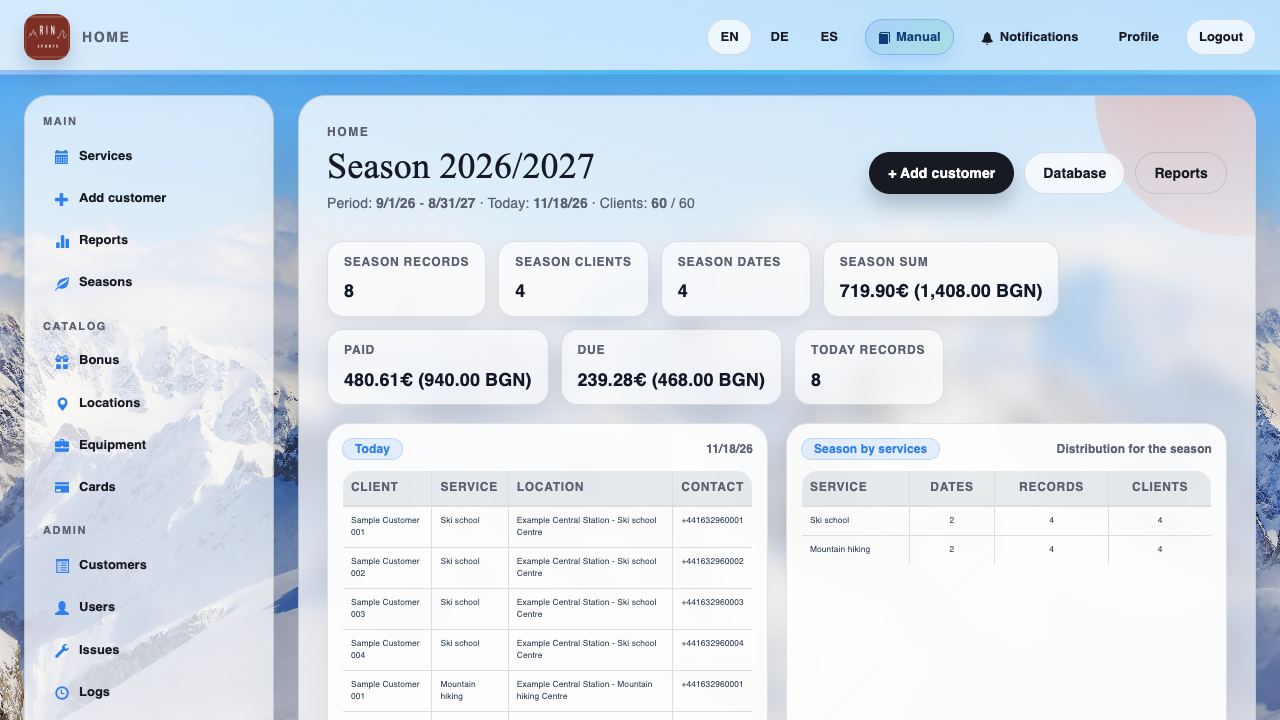
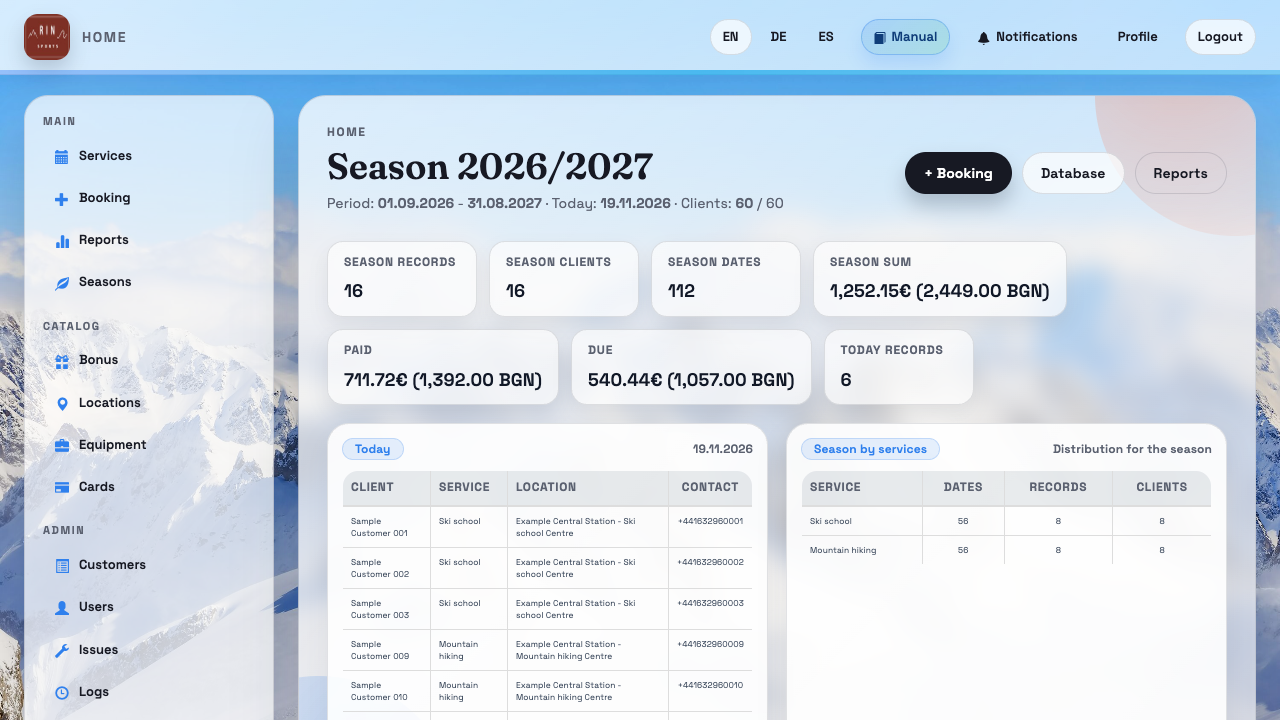
docs: record final product acceptance and refresh synthetic screenshots

diff --git a/docs/product-quality-review.md b/docs/product-quality-review.md
@@ -1,0 +1,81 @@
+# Final product acceptance
+
+**19 November 2026** · Laravel release candidate · Apple Silicon
+
+| Decision | Result |
+| --- | --- |
+| Local acceptance | **GO** for the isolated synthetic ARM64 demo and the documented workflows. |
+| Publication | **NO-GO** pending the owner's explicit publication approval, rights clearance for the remaining bundled assets, the exact GitLab and GitHub destinations and visibility, and hosted CI verification. |
+
+The review reused the earlier authentication, migration, OOP coexistence, architecture, and booking acceptance evidence. Verification for this release used isolated synthetic MySQL and in-memory SQLite. The procedural application, the OOP application, and the prepared database were outside the change scope. [Earlier acceptance evidence](final-acceptance.md)
+
+## Findings and corrections
+
+| Severity | Confirmed finding | Correction and evidence |
+| --- | --- | --- |
+| High | The staff directory listed higher-privilege accounts that the per-account policy denies to the caller. Search and pagination included those accounts. | Apply the same role boundary before querying pages or totals. The API test covers scoped results and search, Super Admin visibility, and the policy-backed Delete action. The interactive Admin check showed only permitted roles and accounts. |
+| High | Typing a payment in the Customers unpaid view passed a number to a string-only parser. The operation stopped before submitting a payment. | Reuse the booking payment parser and the existing idempotent payment client. Chrome applied a synthetic payment in the unpaid view and checked the refreshed balance. |
+| Medium | Creating or extending a period from Services could overlap an existing range, including a gap within that range. | Use the existing season overlap lookup inside the service lock. Regressions cover internal gaps, inclusive endpoints, adjacent ranges, and edits. Legacy ranges can retain their dates during a label or capacity change. |
+| Medium | Reports ignored links from availability, and editing draft filters could relabel or change the all-rows export of an already generated report. Drivers also received a forbidden catalog request while loading the service picker. | Apply linked filters before the first report load. Use the server-confirmed query for the displayed report, pagination, printing, and exports. Report service options expose IDs and localized names through the existing report permission boundary. Chrome verified linked and draft filters, Driver privacy, and German-format dates in CSV. |
+| Medium | Profile, the manual, and Logout disappeared on narrow layouts. Desktop sign-out could submit an expired CSRF token after Inertia sign-in and return HTTP 419. | Restore the account actions in the mobile menu. Desktop and mobile sign-out use the same session-aware Inertia action. Chromium verifies sign-out, focus return with Escape, and menu state. Both layouts were checked interactively. |
+| Medium | Group Leaders were offered customer writes, payment controls, and season forms that the server disallowed. Customer totals also mixed whole-result and visible-page values without a scope label. | Show actions according to the existing permissions. Label the active count as page-specific and display unpaid counts and totals in the unpaid view. Chrome verified the read-only workflow and open-customer action. |
+| Medium | Services and Booking could widen the document on tablets or phones. Decorative shell gradients overflowed, and mobile stacked tables retained desktop minimum widths. | Contain the decoration and let the two stacked tables fit the viewport. The Services and booking lifecycle tests assert the document width on narrow screens. |
+| Low | Browser requests for two remote font stylesheets failed. The service-period form and customer feedback used English in German and Spanish views. Some booking balances had no currency. | Host the existing typefaces locally, synchronize the request locale with Laravel's locale, translate service-period and payment labels, and use the established localized EUR/BGN display. Both fonts loaded in Chrome. [Fraunces source](https://github.com/google/fonts/tree/main/ofl/fraunces) · [Space Grotesk source](https://github.com/google/fonts/tree/main/ofl/spacegrotesk) |
+
+The English staff manual now describes role boundaries, booking and payment actions, service-season availability, report ranges and exports, and mobile account actions. It uses the current Laravel labels and routes. The three README screenshots were recaptured from a clean MySQL demo with generated customer records and visually reviewed.
+
+## Browser and integrity evidence
+
+The installed Chrome walkthrough made 36 authorized route visits across the five roles and revisited the new-period form in German. The final instrumented run captured zero unexpected HTTP failures, failed requests, console warnings or errors, and page exceptions on those routes. A second layout sweep covered 19 authorized pages at 820 px and 390 px. It found no page-level horizontal overflow after the corrections. Wider tables can scroll within their containers. A separate interactive browser session exercised the workflows below.
+
+| Role | Interactive check |
+| --- | --- |
+| Driver | Generated a Ski school transport report and checked that restricted columns were absent. |
+| Group Leader | Opened Customers and Unpaid fees and confirmed that customer creation and payment controls were absent. |
+| Manager | Opened Ski school daily availability and followed its report link. The generated report matched the linked service and date. |
+| Admin | Opened the staff directory and Add User form. Super Admin data and role assignment were outside the visible scope. Verified desktop sign-out. |
+| Super Admin | Confirmed visibility of the highest-level staff account, opened the staff manual, and expanded its report troubleshooting item. |
+
+The automated Chromium business flow created a synthetic customer, booked an existing service day and an eligible gap day, applied a payment, moved booking dates, ran a report, cancelled the booking, and compared the remaining places in a Group Leader session. It also checked a late service response, real CSV downloads, and an independent print window. The suite used synthetic roles and records exclusively.
+
+The fresh database contained 60 customers, two services, six service periods, 112 scheduled days, 16 bookings, 28 booking-date links, and 16 payment mirrors. Each of six checks returned zero findings. The checks covered overlapping periods, dates outside their period, service mismatches, payment mirror differences, overbooking, and duplicate active customer-service dates. The separate MySQL last-place booking and overpayment races each accepted one write and rejected the competing write.
+
+## Release verification
+
+| Gate | Actual result |
+| --- | --- |
+| Clean-checkout Docker install | 24.73 seconds from Compose build/start to healthy on ARM64, with existing image and build caches and fresh isolated database volumes. This measurement excludes cloning and Docker installation. The earlier cold-cache results remain in the previous acceptance report. |
+| Runtime and PHP checks | PHP 8.5.13 in the ARM64 image. 200 PHP tests and 1,185 assertions passed. PHPStan level 8, syntax, Pint, Composer validation and platform requirements passed. |
+| Frontend checks | 84 Vitest tests passed. ESLint, Prettier, Vue type checking, and the Vite build passed. |
+| Dependency audits | The Composer and npm lockfile audits both returned zero advisories for this run. |
+| Chromium | 11 browser scenarios in the Docker quality gate, with the opt-in screenshot case skipped there. The screenshot case passed separately in the synthetic Chrome run. |
+| Repository scan | Gitleaks scanned the shareable working tree and reachable Git history without findings. |
+
+## Performance
+
+The existing deterministic fixture was run with 100,000 synthetic customers on both SQLite 3.51.2 and MySQL 8.4.13. Each median uses seven measured repository-level samples after a warm-up. SQLite ran in memory on PHP 8.5.3. MySQL ran in a disposable Docker schema using the same generator, pagination and query cases with the PHP 8.5.13 container client. HTTP rendering and network latency are outside these numbers.
+
+| Workload | SQLite median | MySQL median | Queries |
+| --- | ---: | ---: | ---: |
+| First page of 25 | 0.13 ms | 3.65 ms | 2 |
+| Page 3,900 | 0.54 ms | 20.59 ms | 2 |
+| Matching substring | 25.99 ms | 82.79 ms | 2 |
+| Missing substring | 13.77 ms | 35.65 ms | 1 |
+
+Peak allocated PHP memory was 36.5 MiB in both runs. A synthetic report returned 10 or 16 rows with seven SQL queries in either case. The report count and totals are database aggregates and details are fetched in batches. The Vue report starts catalog and data requests in parallel. The production entry JavaScript was 102.46 kB gzipped and the locale chunk was 19.87 kB gzipped. The two basic Latin webfont files total 89,708 bytes on first uncached use.
+
+The customer query continues to use server-side offset pagination and substring matching. The measurements give a basis for a future change if the workload warrants it. The schema already has relationship and date indexes, and this review leaves search and index changes outside the release. Services, bookings, and reports were reviewed for eager loading, bounded pages, and repeated requests. The 100,000-row benchmark covers customer list and search. It does not represent a 100,000-booking export or a production latency budget.
+
+## Architecture and limitations
+
+- Authorization remains in Laravel policies and middleware. Payment parsing reuses the booking helper, and overlap checks run under the existing service lock. Dependencies, data models, and database schema were kept in place.
+- Grouped season presentation helpers remain reachable only from older frontend tests, while service labels, bonus grouping, and daily report link helpers are still used. The single-implementation repository contracts and forwarding service methods remain candidates for later simplification when related features change.
+- The app has English fallbacks for 356 English catalog keys in German and 356 in Spanish. The counts measure direct keys and include some legacy labels. The English manual is served for all three locale choices. Full localization, accessibility conformance, physical passkeys and x86-64 execution remain unverified. The auth and operational screens have automated coverage beyond the sampled browser workflows.
+- Booking rows retain their full date itinerary within a matched report record. Header filters refine the current page, and whole-range CSV/print still collect server pages in the browser. Unpaid balances and whole-result exports were verified on the demo fixture. Their performance at enterprise scale remains unmeasured.
+- Review and testing were agent-assisted. The owner provided the task scope and earlier approvals. Human review of this release and permission to publish are separate, outstanding steps. The local commits preserve the existing Git history. [Engineering record](ai-development.md)
+
+## Publication checklist
+
+- Confirm rights to distribute the existing photographs, logo, and any other bundled assets. The two localized fonts retain their upstream SIL Open Font License notices.
+- Confirm the employer's GitHub repository and preferred visibility, along with the GitLab destination and visibility. Keep the same reviewed history on both platforms.
+- Obtain explicit publication approval and run both hosted pipelines on their intended runners. The local run covers the shared script and secret check. Hosted runner and repository settings require separate verification.

diff --git a/docs/ai-development.md b/docs/ai-development.md
@@ -31,3 +31,10 @@ Tests used isolated in-memory SQLite, a disposable MySQL server, and Chrome with
 The owner asked, “Do not restart the modernization process.” The scope reused the existing Git baseline, security audit, import documentation, and verified application behavior. The owner also instructed, “Do not suppress errors, weaken tests or modify quality thresholds simply to obtain passing results.” The local acceptance pass updated the repository with the already verified profile and localhost authentication fixes, traced the Driver report fields from the Vue visibility rules through the API, and added a regression for fields and search behavior that the earlier report test did not cover.
 
 The browser coverage was expanded to load every CRM module with the isolated Super Admin account and check the German profile label. The historical audit and the new check use different evidence. The audit inspected code and reported vulnerabilities despite a passing test suite. The new check exercises the patched endpoints, records outputs from the current lockfile audits, and uses clean Git clones for Docker installation. The local evaluation runs and act of committing are agent work. The owner defined the evaluation scope and approved the earlier remediation phases and new local Git history. Publication approval, review of the rights to distribute assets, and a human code review have separate recorded statuses in the [acceptance report](final-acceptance.md).
+
+
+## Final product review
+
+The owner requested a final release evaluation that reused prior acceptance evidence and kept verification isolated. Codex reviewed all staff modules, compared source and browser behavior, and made targeted corrections to report filters and exports, unpaid payments, period overlaps, role boundaries, mobile account controls and session-aware sign-out. It retained the existing schema and lockfiles. The English manual and synthetic screenshots were refreshed using the current Laravel application.
+
+Agent-run evidence includes the five-role interactive walkthrough, an instrumented Chrome smoke run, the clean Docker quality and secret gates, the SQLite and MySQL 100,000-customer benchmark, and both MySQL concurrency checks. The report records the initial browser failures found during review and the final passing results. The commits record current work and carry the existing agent authorship. [Final product acceptance](product-quality-review.md)

diff --git a/docs/architecture.md b/docs/architecture.md
@@ -29,3 +29,10 @@ The booking repository and the booking and report Vue composables are the larges
 The schema uses keys and uniqueness constraints for catalog prices, slot dates, booking-date links, payment mirrors, and mutation receipts. Booking service references are polymorphic in the legacy layout, and a global pickup location can use the legacy sentinel. Keep those integrity rules explicit in the application and import checks. Reports use bounded result pages and batched detail reads. The dashboard uses grouped aggregates, and the booking list eager loads its relationships. The report date predicate wraps the date column, so the presence of an index alone does not establish that MySQL selects a range plan. Search uses substring semantics, and unpaid and full-export workflows can collect many results. The measured customer benchmark covers list queries rather than those whole-result workloads. [Final acceptance results](final-acceptance.md)
 
 During the final review, the Driver report's data boundary was aligned with its existing visible fields. The authenticated role scopes the report query and presentation. Birth dates, email addresses, and note values are cleared for Drivers, monetary values are masked, and the API excludes private email matching and hidden-field sorting. Transport contact name and phone, routes, booking dates, and the existing outstanding-record count remain available to Drivers.
+
+
+## Final product review
+
+Report drafts are separate from the server-confirmed filters used for the table, paging and exports. Report service options contain localized names and IDs, including archived services needed for historical reports. Drivers access the same option endpoint under the report permission boundary. The staff directory scopes results before search and pagination using the account policy's role ordering. The per-target policy still authorizes each account write.
+
+Service period writes and legacy season management now share the overlap lookup and the existing service row lock. The customer benchmark and report query counts continue to support the current pagination and eager-loading choices. [Final product acceptance](product-quality-review.md)

diff --git a/README.md b/README.md
@@ -38,9 +38,9 @@ sh scripts/ci-verify.sh quality
 
 This runs the same container-based gates used by GitLab CI and GitHub Actions, including the locked dependency audits, PHP and frontend checks, and Chromium against an isolated demo. The checks use generated data. [Native test, MySQL concurrency, and benchmark commands](docs/operations.md)
 
-The 100,000-customer benchmark measured median repository calls of 0.12 ms for the first page, 0.48 ms for a deep page, and 25.54 ms for a substring match. It ran on an Apple Silicon Mac using PHP 8.5.3 and in-memory SQLite. [Results and measurement boundaries](docs/final-acceptance.md#100000-customer-benchmark)
+The latest 100,000-customer MySQL benchmark measured median repository calls of 3.65 ms for the first page, 20.59 ms for a deep page, and 82.79 ms for a substring match on ARM64. [Performance results, SQLite comparison and measurement boundaries](docs/product-quality-review.md#performance)
 
-The Driver report API restricts confidential fields, and regression tests exercise staff role boundaries, account revocation, and CSRF. Reports that export every matching row still assemble paginated results in the browser. The local demo was verified on ARM64. Hosted CI, x86-64 execution, physical passkeys, and full accessibility conformance remain unverified. Application and asset redistribution require rights-holder confirmation. [Final acceptance and publication gates](docs/final-acceptance.md)
+The Driver report API restricts confidential fields, and regression tests exercise staff role boundaries, account revocation, and CSRF. Reports that export every matching row still assemble paginated results in the browser. The local demo was verified on ARM64. Hosted CI, x86-64 execution, physical passkeys, and full accessibility conformance remain unverified. Application and asset redistribution require rights-holder confirmation. [Final product acceptance and publication gates](docs/product-quality-review.md)
 
 ## Engineering records
 

diff --git a/docs/final-acceptance.md b/docs/final-acceptance.md
@@ -1,5 +1,7 @@
 # Final acceptance
 
+The [final product quality review](product-quality-review.md) records the most recent local release decision and verification.
+
 **Evaluation date** 19 November 2026. This review builds on the owner's prior acceptance of the local remediation and approval of the repository baseline. The recruitment review added the localhost session fix, distinct administrator labels, Driver report privacy checks, and cross-database report search.
 
 | Decision | Status |
